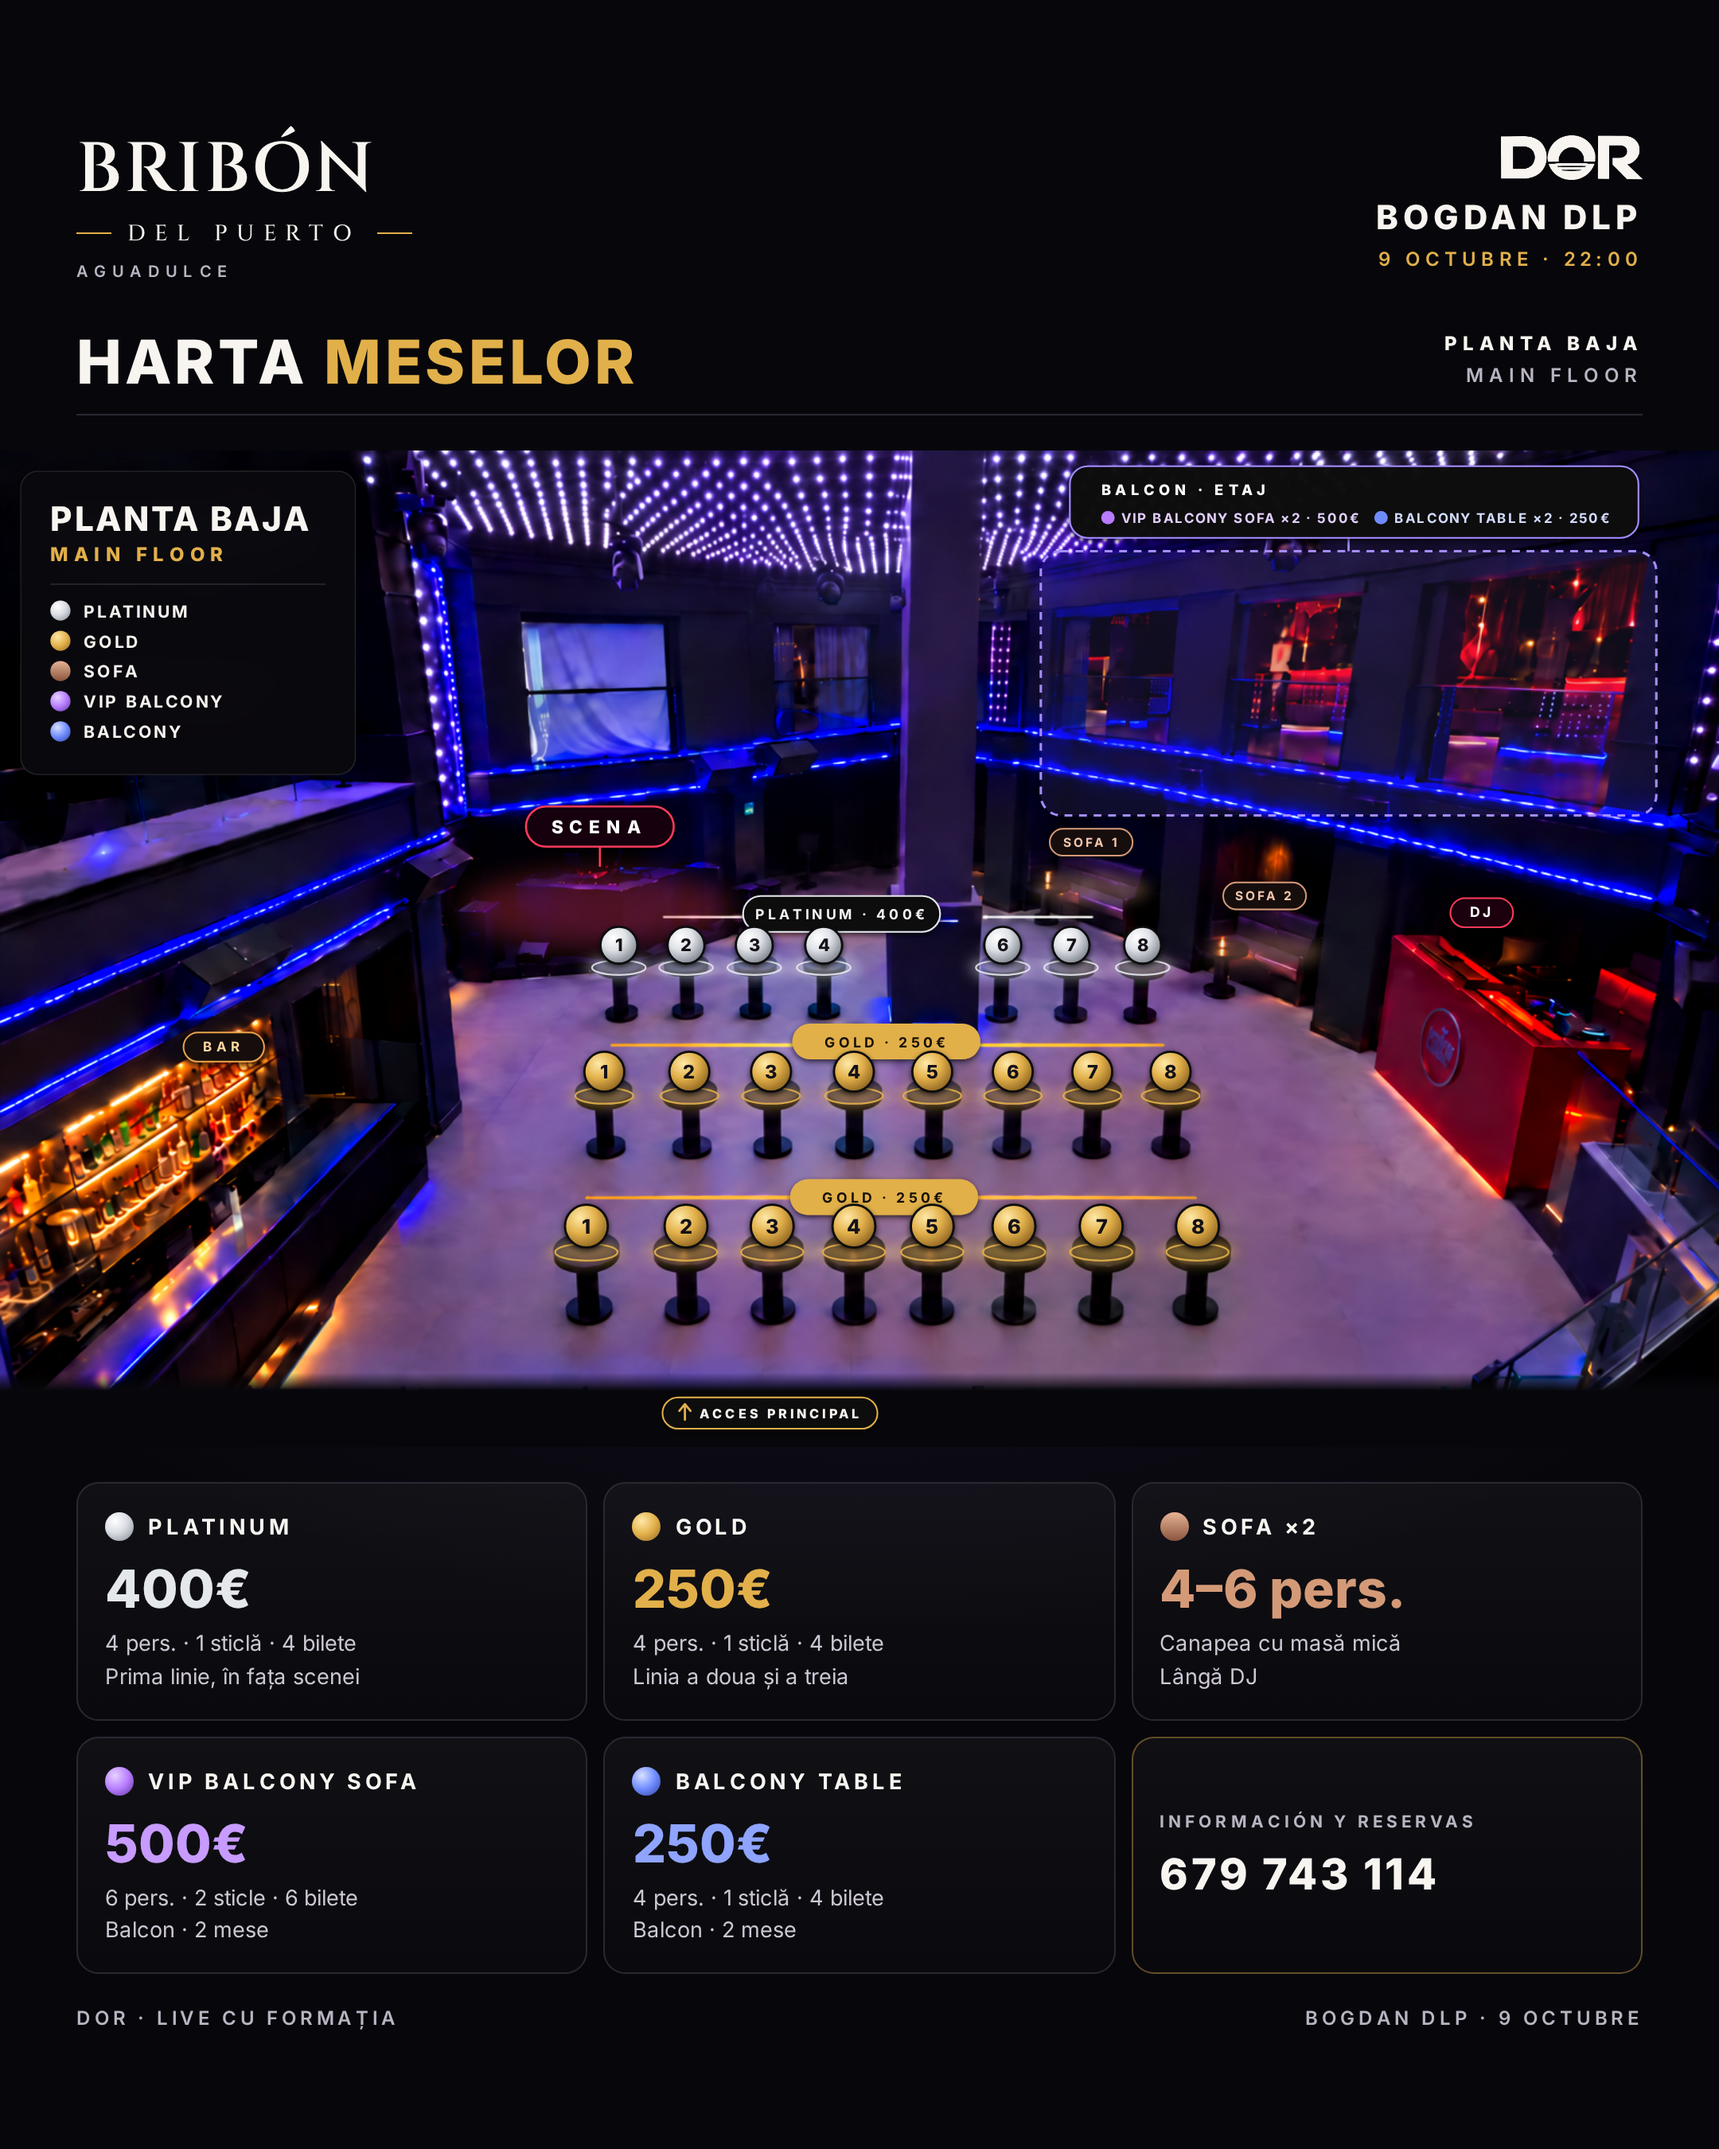
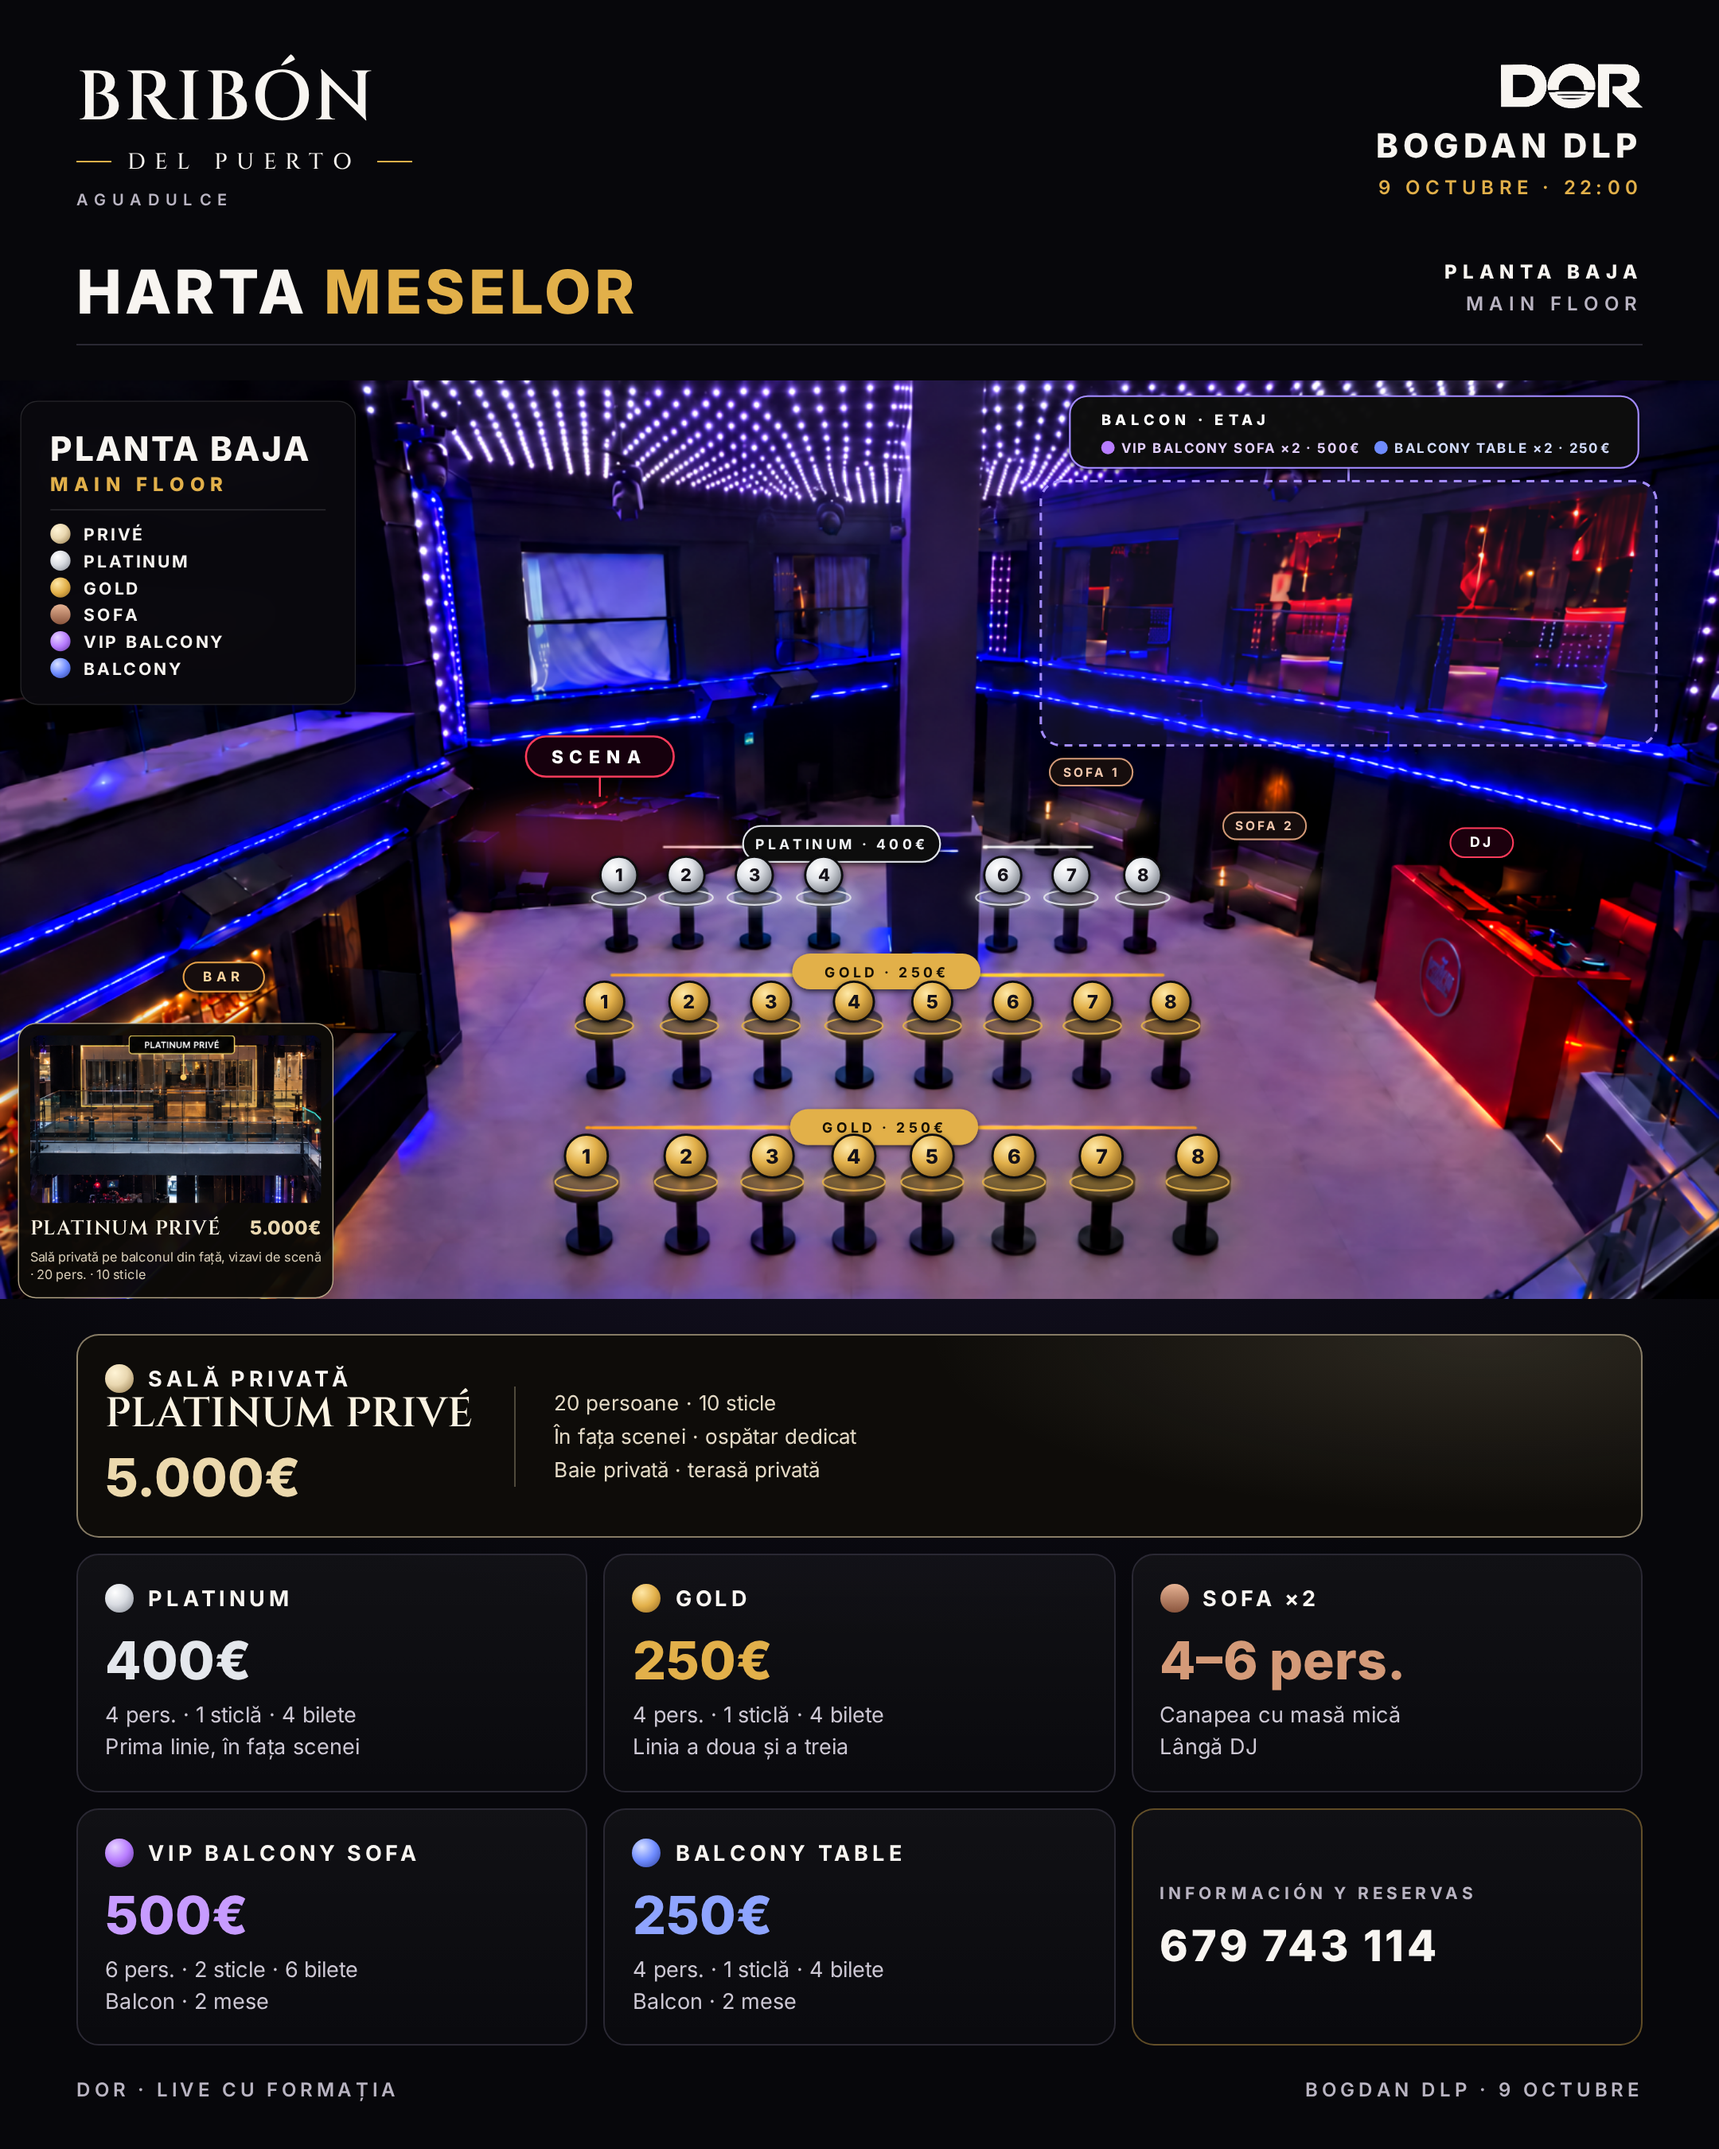
Harta pe foto: Platinum Privé (balconul din față) cu inserție foto și card dedicat
Claude-Session: https://claude.ai/code/session_01CQvvotQmQH2aqorEYVjyXo

diff --git a/harta_mese/harta_foto.html b/harta_mese/harta_foto.html
@@ -36,7 +36,7 @@
 
   /* bandă legendă în poză (varianta landscape) */
   .lg{left:0;right:0;bottom:0;height:192px;border-radius:0;border-width:1px 0 0;
-    display:grid;grid-template-columns:repeat(5,1fr) 1.05fr;padding:0 10px;background:rgba(6,6,10,.84)}
+    display:grid;grid-template-columns:1.12fr repeat(5,1fr);padding:0 10px;background:rgba(6,6,10,.84)}
   .lg > div{padding:34px 16px 0;border-right:1px solid rgba(255,255,255,.08)}
   .lg > div:last-child{border-right:0}
   .lg .k{display:flex;align-items:center;gap:8px;font-weight:700;font-size:12.5px;letter-spacing:.12em;white-space:nowrap}
@@ -106,12 +106,34 @@
     background:linear-gradient(180deg,rgba(7,7,11,.0),#07070b 8%)}
   .vp h2{font-weight:800;font-size:30px;letter-spacing:.06em;line-height:1.1}
   .vp h2 span{display:block;color:var(--gold);font-size:17px;letter-spacing:.3em;margin-top:6px}
-  .vp ul{list-style:none;margin-top:16px;padding-top:14px;border-top:1px solid rgba(255,255,255,.14);display:grid;gap:8px}
+  .vp ul{list-style:none;margin-top:12px;padding-top:12px;border-top:1px solid rgba(255,255,255,.14);display:grid;gap:5px}
   .vp li{display:flex;align-items:center;gap:12px;font-weight:700;font-size:15px;letter-spacing:.14em}
   .vp .sw{width:18px;height:18px;border-radius:50%}
   .vert .page{justify-content:center}
   .vert .pl .p{font-size:33px} .vert .pl .s{font-size:13.5px} .vert .pl .k{font-size:13.5px}
   .vert .pl > div{padding:18px 17px 17px}
+
+  /* Platinum Privé: inserție foto (sala e pe balconul din față, de unde e făcută fotografia) */
+  .inset{position:absolute;z-index:3;left:16px;top:574px;width:282px;padding:10px 10px 12px;border-radius:16px;
+    background:rgba(12,10,7,.96);border:1.5px solid rgba(233,215,176,.75);box-shadow:0 10px 30px rgba(0,0,0,.6)}
+  .inset img{display:block;width:100%;height:150px;object-fit:cover;object-position:50% 30%;border-radius:9px}
+  .inset .t{display:flex;justify-content:space-between;align-items:baseline;margin-top:10px}
+  .inset b{font-family:Cinzel,serif;font-weight:600;font-size:18px;color:#fbf3e2;letter-spacing:.04em}
+  .inset em{font-style:normal;font-weight:800;font-size:17px;color:#e9d7b0}
+  .inset span{display:block;font-size:11.5px;color:#d9ceb8;margin-top:5px;line-height:1.4}
+  .vert.story .inset{left:66px}
+  .sw.prive{background:radial-gradient(circle at 35% 30%,#fff4d6,#e9d7b0 45%,#8f7445)}
+  .c-prive{color:#ecd9ad}
+  .hd .rzh{margin-top:16px;display:flex;flex-direction:column}
+  .hd .rzh span{font-size:9.5px;letter-spacing:.26em;color:var(--mute);font-weight:700}
+  .hd .rzh b{font-size:22px;font-weight:800;letter-spacing:.06em;margin-top:5px}
+  .pl .prv{grid-column:1/-1;display:flex;align-items:center;gap:26px;border-color:rgba(233,215,176,.55);
+    background:radial-gradient(500px 160px at 90% 0%,rgba(233,215,176,.14),transparent 70%),#0e0c09}
+  .pl .prv .nm{font-family:Cinzel,serif;font-weight:600;font-size:26px;color:#fbf3e2;line-height:1.05}
+  .pl .prv .p{margin-top:6px}
+  .pl .prv .ft{font-size:13px;color:#e4dac6;line-height:1.6;border-left:1px solid rgba(233,215,176,.3);padding-left:24px}
+  .vert .page{padding-top:40px;padding-bottom:30px}
+  .pl{row-gap:10px}
 </style>
 </head>
 <body>
@@ -199,16 +221,22 @@
 
 <!-- landscape -->
 <div class="stage" id="land">
+  <div class="inset"><img src="surse/platinum_prive.png" alt="Platinum Privé">
+    <div class="t"><b>PLATINUM PRIVÉ</b><em>5.000€</em></div>
+    <span>Sală privată pe balconul din față, vizavi de scenă · 20 pers. · 10 sticle</span></div>
   <div class="glass hd">
     <div class="b">BRIBÓN</div>
     <div class="d"><i></i>DEL PUERTO<i></i></div>
     <div class="a">AGUADULCE</div>
+    <div class="rzh"><span>INFORMACIÓN Y RESERVAS</span><b>679 743 114</b></div>
     <div class="fl">
       <h2>PLANTA BAJA<span>MAIN FLOOR</span></h2>
       <div class="ev"><img src="dor_logo.png" alt="DOR"><b>BOGDAN DLP</b><s>9 OCTUBRE · 22:00</s></div>
     </div>
   </div>
   <div class="glass lg">
+    <div><div class="k"><span class="sw prive"></span>PLATINUM PRIVÉ</div><div class="p c-prive">5.000€</div>
+      <div class="s">20 pers. · 10 sticle · ospătar dedicat<br>Sală privată, baie &amp; terasă privată</div></div>
     <div><div class="k"><span class="sw plat"></span>PLATINUM</div><div class="p c-plat">400€</div>
       <div class="s">4 pers. · 1 sticlă · 4 bilete<br>Prima linie, în fața scenei</div></div>
     <div><div class="k"><span class="sw gold"></span>GOLD</div><div class="p c-gold">250€</div>
@@ -219,7 +247,6 @@
       <div class="s">6 pers. · 2 sticle · 6 bilete<br>Balcon · 2 mese</div></div>
     <div><div class="k"><span class="sw bal"></span>BALCONY TABLE</div><div class="p c-bal">250€</div>
       <div class="s">4 pers. · 1 sticlă · 4 bilete<br>Balcon · 2 mese</div></div>
-    <div class="rz"><span>INFORMACIÓN Y RESERVAS</span><b>679 743 114</b><i>DOR · LIVE CU FORMAȚIA</i></div>
   </div>
 </div>
 
@@ -232,11 +259,16 @@
   <div class="pt"><h1>HARTA <span>MESELOR</span></h1><div><b>PLANTA BAJA</b><br>MAIN FLOOR</div></div>
   <div class="frame"><div class="stage" id="vstage" style="transform:scale(.703125)">
     <div class="vb"></div>
+    <div class="inset"><img src="surse/platinum_prive.png" alt="Platinum Privé">
+    <div class="t"><b>PLATINUM PRIVÉ</b><em>5.000€</em></div>
+    <span>Sală privată pe balconul din față, vizavi de scenă · 20 pers. · 10 sticle</span></div>
     <div class="glass vp"><h2>PLANTA BAJA<span>MAIN FLOOR</span></h2>
-      <ul><li><span class="sw plat"></span>PLATINUM</li><li><span class="sw gold"></span>GOLD</li>
+      <ul><li><span class="sw prive"></span>PRIVÉ</li><li><span class="sw plat"></span>PLATINUM</li><li><span class="sw gold"></span>GOLD</li>
           <li><span class="sw sofa"></span>SOFA</li><li><span class="sw vip"></span>VIP BALCONY</li><li><span class="sw bal"></span>BALCONY</li></ul></div>
   </div></div>
   <div class="pl">
+    <div class="prv"><div><div class="k"><span class="sw prive"></span>SALĂ PRIVATĂ</div><div class="nm">PLATINUM PRIVÉ</div><div class="p c-prive">5.000€</div></div>
+      <div class="ft">20 persoane · 10 sticle<br>În fața scenei · ospătar dedicat<br>Baie privată · terasă privată</div></div>
     <div><div class="k"><span class="sw plat"></span>PLATINUM</div><div class="p c-plat">400€</div>
       <div class="s">4 pers. · 1 sticlă · 4 bilete<br>Prima linie, în fața scenei</div></div>
     <div><div class="k"><span class="sw gold"></span>GOLD</div><div class="p c-gold">250€</div>
